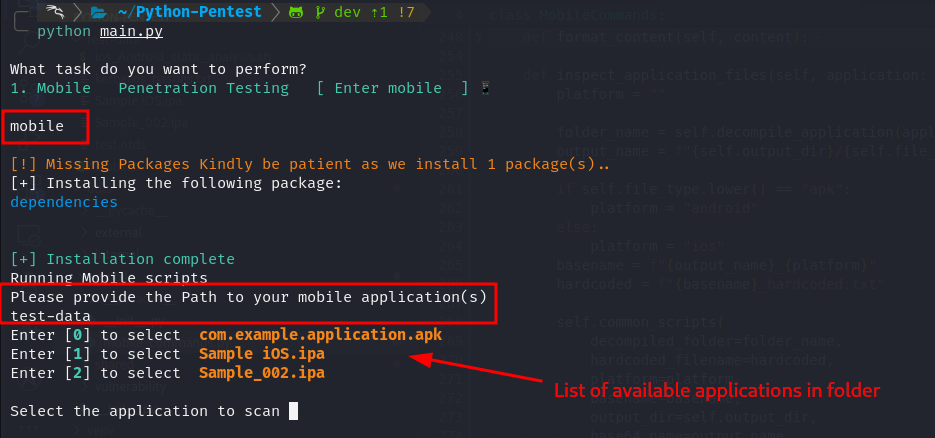
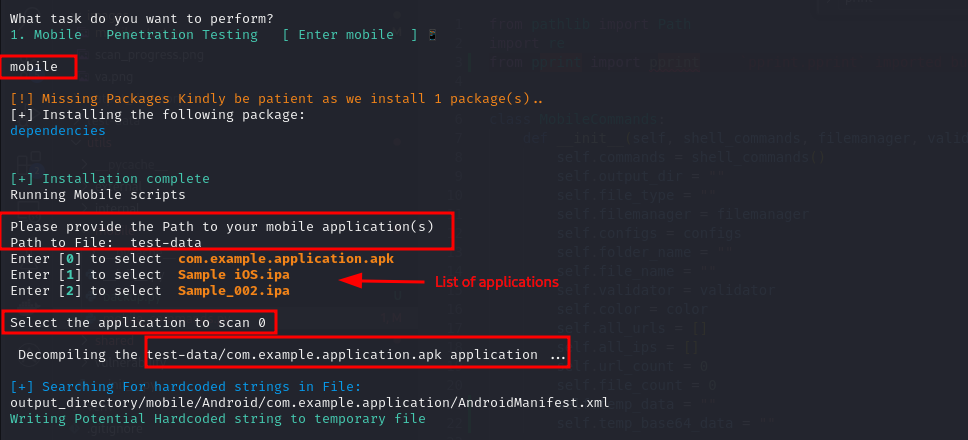
modified readme file, removed unnecessary file creation

Changed region(s): [[0.0, 0.1187, 0.9305, 0.9795], [0.0, 0.0, 0.4032, 0.089]]

diff --git a/utils/mobile/mobile_commands.py b/utils/mobile/mobile_commands.py
@@ -17,6 +17,8 @@ class MobileCommands:
         self.all_ips = []
         self.url_count = 0
         self.file_count = 0
+        self.temp_data = ""
+        self.temp_base64_data = ""
 
     def push_certs(self, certificate):
         self.commands.run_os_commands(f"adb push {certificate} /storage/emulated/0/")
@@ -117,78 +119,52 @@ class MobileCommands:
 
     def get_base64_strings(self, folder, base_name, platform):
         path_2_folder = Path(folder)
-        temp_file = path_2_folder / "strings.txt"
-        base_64_file = path_2_folder / "base64.txt"
         output = f"{base_name}_{platform}_base64.txt"
 
         # TODO: refactor code:
         # avoid saving to file
         # use class memory
 
-        if not self.validator.file_exists(temp_file):
-            self.create_temp_file(temp_file, path_2_folder)
+        if not self.temp_data:
+            self.create_temp_file(path_2_folder)
 
-        if not self.validator.file_exists(base_64_file):
-            print(f"Creating temporary file: {base_64_file}")
-            with open(temp_file, "r") as f:
-                content = f.read()
+        if not self.temp_base64_data:
+            print("Processing base64 strings ...\n")
+            base64_strings = re.findall(self.configs.BASE64_REGEX, self.temp_data)
+            self.temp_base64_data = sorted(set(base64_strings))
+            print("Base64 strings processed and stored in memory.")
 
-            base64_strings = re.findall(self.configs.BASE64_REGEX, content)
-            # Remove duplicates and write to base64 file
-            unique_base64_strings = sorted(set(base64_strings))
+        self.decode_base64(output)
 
-            with open(base_64_file, "a") as f:
-                f.write("\n".join(unique_base64_strings) + "\n")
+    def create_temp_file(self, folder_path):
+        print(f"Creating in-memory temp data from folder:\n {folder_path}")
+        temp_data_list = []
 
-            self.decode_base64(base_64_file, output)
-        # Clean up temporary files
-        self.remove_temp_files([temp_file, base_64_file])
+        for file in folder_path.rglob("*"):
+            if file.is_file():
+                command = f"rabin2 -zzzqq  {file}"
+                try:
+                    result = self.commands.run_os_commands(command)
+                    # Sort and remove duplicates, then write to temp_file
+                    unique_lines = sorted(set(result.stdout.splitlines()))
 
-    def create_temp_file(self, temp_file, folder_path):
-        print(f"Creating temporary file: {temp_file}")
-        with open(temp_file, "w") as tempf:
-            for file in folder_path.rglob("*"):
-                if file.is_file():
-                    command = f"rabin2 -zzzqq  {file}"
-                    try:
-                        result = self.commands.run_os_commands(command)
-                        # Sort and remove duplicates, then write to temp_file
-                        unique_lines = sorted(set(result.stdout.splitlines()))
-
-                        if result.stdout.strip():
-                            joined_string = "\n".join(unique_lines) + "\n"
-                            print(
-                                f"{self.color.OKCYAN}[+] Getting strings from:{self.color.ENDC} \n{file}\n"
-                            )
-                            tempf.write(joined_string)
-                    except Exception as error:
+                    if result.stdout.strip():
+                        joined_string = "\n".join(unique_lines) + "\n"
                         print(
-                            f"{self.color.FAIL}[!] Error processing file {self.color.ENDC}{file} : {error}"
+                            f"{self.color.OKCYAN}[+] Getting strings from:{self.color.ENDC} \n{file}\n"
                         )
-
-    def remove_temp_files(self, temp_files):
-        for file in temp_files:
-
-            try:
-                if self.validator.file_exists(file):
-                    filename = self.filemanager.get_file_basename(file)
-                    file.unlink()
+                        temp_data_list.append(joined_string)
+                except Exception as error:
                     print(
-                        f"{self.color.OKGREEN}[+] Successfully removed temporary file:{self.color.ENDC} {self.color.BOLD}{filename}{self.color.ENDC}"
+                        f"{self.color.FAIL}[!] Error processing file {self.color.ENDC}{file} : {error}"
                     )
-                else:
-                    print(
-                        f"{self.color.FAIL}[!] File not found, skipping removal:{self.color.ENDC} {self.color.BOLD}{filename}{self.color.ENDC}"
-                    )
-            except Exception as e:
-                print(
-                    f"{self.color.FAIL}[!] Error removing temporary files: {e} {self.color.ENDC}"
-                )
+        self.temp_data = "".join(temp_data_list)
 
-    def decode_base64(self, base_64_file, output):
+    def decode_base64(self, output):
+        """Decode base64 strings stored in memory and write to file"""
         print("Decoding base64 strings ==> \n")
-        with open(base_64_file, "r") as f, open(output, "a") as out_f:
-            for string in f:
+        with open(output, "a") as out_f:
+            for string in self.temp_base64_data:
                 string = string.strip()
                 if string:  # Check if string is not empty
                     try:
@@ -197,7 +173,8 @@ class MobileCommands:
 
                         if decoded.stdout:
                             print(
-                                f"{self.color.OKCYAN}Encoded String: {string}{self.color.ENDC}\nDecoded String: {decoded.stdout}\n"
+                                f"{self.color.OKCYAN}Encoded String: {string}{self.color.ENDC}\nDecoded String: {decoded.stdout}\n",
+                                flush=True,
                             )
                             out_f.write(
                                 f"Encoded String: {string}\nDecoded string: {decoded.stdout}\n"
@@ -225,12 +202,7 @@ class MobileCommands:
                     ]
                     if filtered_urls:
                         filtered_urls = sorted(set(filtered_urls))
-                        for url in filtered_urls:
-                            self.url_count += 1
-                            self.all_urls.append(url)
-                            print(
-                                f"{self.color.OKCYAN}[+] Found {self.url_count} unique URL(s) from {self.file_count} application files: {self.color.ENDC}"
-                            )
+                        self.all_urls.extend([url for url in filtered_urls])
 
                     ips = re.findall(self.configs.IP_REGEX, result.stdout)
 
@@ -238,6 +210,7 @@ class MobileCommands:
                         print(
                             f"{self.color.WARNING}[+] Possible IP(s) found: {self.color.ENDC}",
                             ips,
+                            flush=True,
                         )
                         self.all_ips.extend([ip for ip in ips])
 
@@ -246,13 +219,18 @@ class MobileCommands:
                         f"{self.color.FAIL}[!] Error extracting Links {e}{self.color.ENDC}"
                     )
         # Remove all duplicates and save to file
-        self.sort_urls_and_ips(url_name, self.all_urls)
+        self.sort_urls_and_ips(url_name, self.all_urls, urls=True)
         self.sort_urls_and_ips(ip_name, self.all_ips)
 
-    def sort_urls_and_ips(self, filename, data):
+    def sort_urls_and_ips(self, filename, data, **kwargs):
         with open(filename, "w") as f:
             unique_lines = sorted(set(data))
             for line in unique_lines:
+                if "urls" in kwargs:
+                    self.url_count += 1
+                    print(
+                        f"{self.color.OKCYAN}[+] Found {self.url_count} unique URL(s) from {self.file_count} application files: {self.color.ENDC}"
+                    )
                 f.write(f"{line}\n")
 
     def format_content(self, content):

diff --git a/handlers/user_handler.py b/handlers/user_handler.py
@@ -51,9 +51,9 @@ class UserHandler:
     def mobile_ui_interaction(self):
         while True:
             try:
-                print("Running Mobile scripts")
+                print("Running Mobile scripts\n")
                 package_path = input(
-                    "Please provide the Path to your mobile application(s)\n"
+                    "Please provide the Path to your mobile application(s)\nPath to File:  "
                 ).strip()
                 # Show list of apks available
                 if not self.validator.check_folder_exists(package_path):

diff --git a/handlers/file_handler.py b/handlers/file_handler.py
@@ -140,7 +140,6 @@ class FileHandler:
         ):
             # os.getcwd()
             folder_path = self.output_directory
-            print(self.output_directory)
             os.makedirs(folder_path)
             # print(f"Folder '{folder_name}' not found. Created at: {folder_path}")
 

diff --git a/README.md b/README.md
@@ -56,14 +56,28 @@ inorder to avoid resumming from the last recorded live IP.
     Output file: The Name of your analyzed file
 ```
 ![Vulnerability Analysis](images/va.png)
-## 3. External Penetration Testing
+
+## 3. Mobile Penetration Testing
+
+
+- To run the module simply enter [ **mobile** ] on the provided prompt
+- This module performs a number of static analysis on both android and iOS (iOS coming soon)
+- It decompiles the apk file using apktool and runs regex checks on the files present on the decompiled application folder to look for
+1. Hardcoded values
+2. URLs present within the application
+3. IP addresses present
+4. Decode any available base64 strings
+
+### Start script
+![Mobile Penetration](images/mobile-start.png)
+
+### Check for hardcoded values
+![Hardcoded strings](images/mobile-hardcoded.png)
+
+## 4. External Penetration Testing
 
 [Coming Soon]
 
 - To run the module simply enter [ **external** ] on the provided prompt
 
-## 4. Mobile Penetration Testing
 
-[Coming Soon]
-
-- To run the module simply enter [ **mobile** ] on the provided prompt
